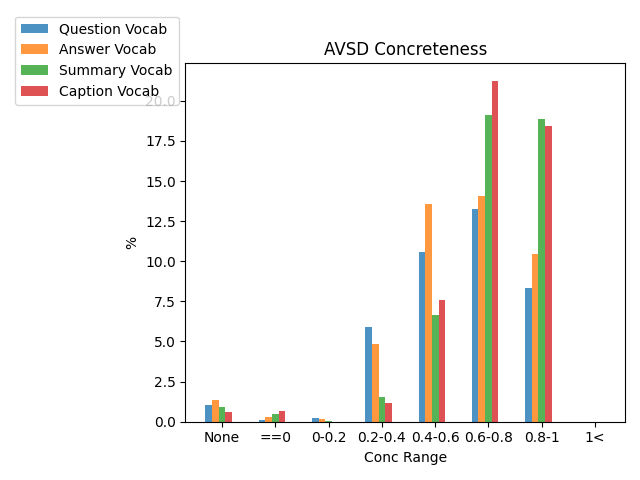
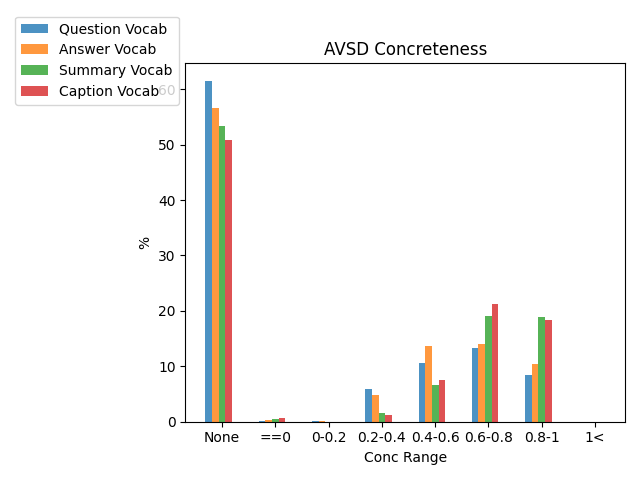
figures generated

diff --git a/PLACEHOLDER.py b/PLACEHOLDER.py
@@ -114,7 +114,7 @@ def normdict2plot(norm_dicts, dict_labels, title="DEFAULT TITLE", xlab="DEFAULT 
 
     # Data
     data = [ (
-        (100*ndict["hasnt_norm"]+ndict["n_stopwords"])/ndict["length"],
+        (100*(ndict["hasnt_norm"]+ndict["n_stopwords"]))/ndict["length"],
         100*ndict["norm==0"]/ndict["length"],
         100*ndict["0<norm<=0.2"]/ndict["length"],
         100*ndict["0.2<norm<=0.4"]/ndict["length"],
@@ -149,13 +149,19 @@ def vocab2norm_stats(vocab, norm="conc-m"):
         vocab.remove("")
     except:
         pass
-    have_word = [word for word in vocab if word in norm_dict.words.keys()]
-    have_conc_norm = [ word for word in have_word if norm in norm_dict.words[word].keys() ] # Collect all words in vocab we have a concreteness norm for
-    havent_conc_norm = [ word for word in vocab if word not in have_conc_norm ]
+    #print("prepro1")
+    #have_word = [word for word in vocab if word in norm_dict.words.keys()]
+    #have_conc_norm = [ word for word in have_word if norm in norm_dict.words[word].keys() ] # Collect all words in vocab we have a concreteness norm for
+    #havent_conc_norm = [ word for word in vocab if word not in have_conc_norm ]
+    #print("prepro2")
+    #import ipdb; ipdb.set_trace()
     # Vocab stats
-    print(f"We have concreteness for {100*len(have_conc_norm)/len(vocab):.2f}% of vocab")
+    #print(f"We have concreteness for {100*len(have_conc_norm)/len(vocab):.2f}% of vocab")
+    print("Starting...")
     _, vocab_norm_stats = line_to_stats(" ".join(vocab), norm)
+    print("Line2stats done")
     vocab_norm_stats = norm_stats(vocab_norm_stats, norm)
+    print("Norm stats done")
     return vocab_norm_stats
 
 
@@ -283,19 +289,27 @@ def tvqa(args):
         ts_subtitles.append(located_sub_text)
         nots_subtitles.append(sub_text)   
     ### Features
+    print("cleaning features")
     questions = [ clean_word(word) for sentence in questions for word in sentence.split() ]
     answers = [ clean_word(word) for sentence in answers for word in sentence.split() ]
     correct_answers = [ clean_word(word) for sentence in correct_answers for word in sentence.split() ]
     vcpts_collect = [ clean_word(word) for sentence in vcpts_collect for word in sentence.split() ]
     ts_subtitles = [ clean_word(word) for sentence in ts_subtitles for word in sentence.split() ]
     nots_subtitles = [ clean_word(word) for sentence in nots_subtitles for word in sentence.split() ]
-
+    print("0/6: Getting stats from features")
+    #import ipdb; ipdb.set_trace()
     questions_conc = vocab2norm_stats(questions, "conc-m")
+    print("1/6: Questions done ")
     answers_conc = vocab2norm_stats(answers, "conc-m")
+    print("2/6: Answers done ")
     correct_answers_conc = vocab2norm_stats(correct_answers, "conc-m")
+    print("3/6: Correct Answers done ")
     vcpts_collect_conc = vocab2norm_stats(vcpts_collect, "conc-m")
+    print("4/6: Vcpts done ")
     ts_subtitles_conc = vocab2norm_stats(ts_subtitles, "conc-m")
+    print("5/6: TS Subtitles done ")
     nots_subtitles_conc = vocab2norm_stats(nots_subtitles, "conc-m")
+    print("6/6: No-TS Subtitles done ")
     # Plots
     plot_dicts = [questions_conc, answers_conc, correct_answers_conc, vcpts_collect_conc, ts_subtitles_conc, nots_subtitles_conc]
     plot_labels = [ "Questions", "Answers", "Correct Answers", "Vcpts", "Subtitles_ts", "Subtitles_no-ts" ]
